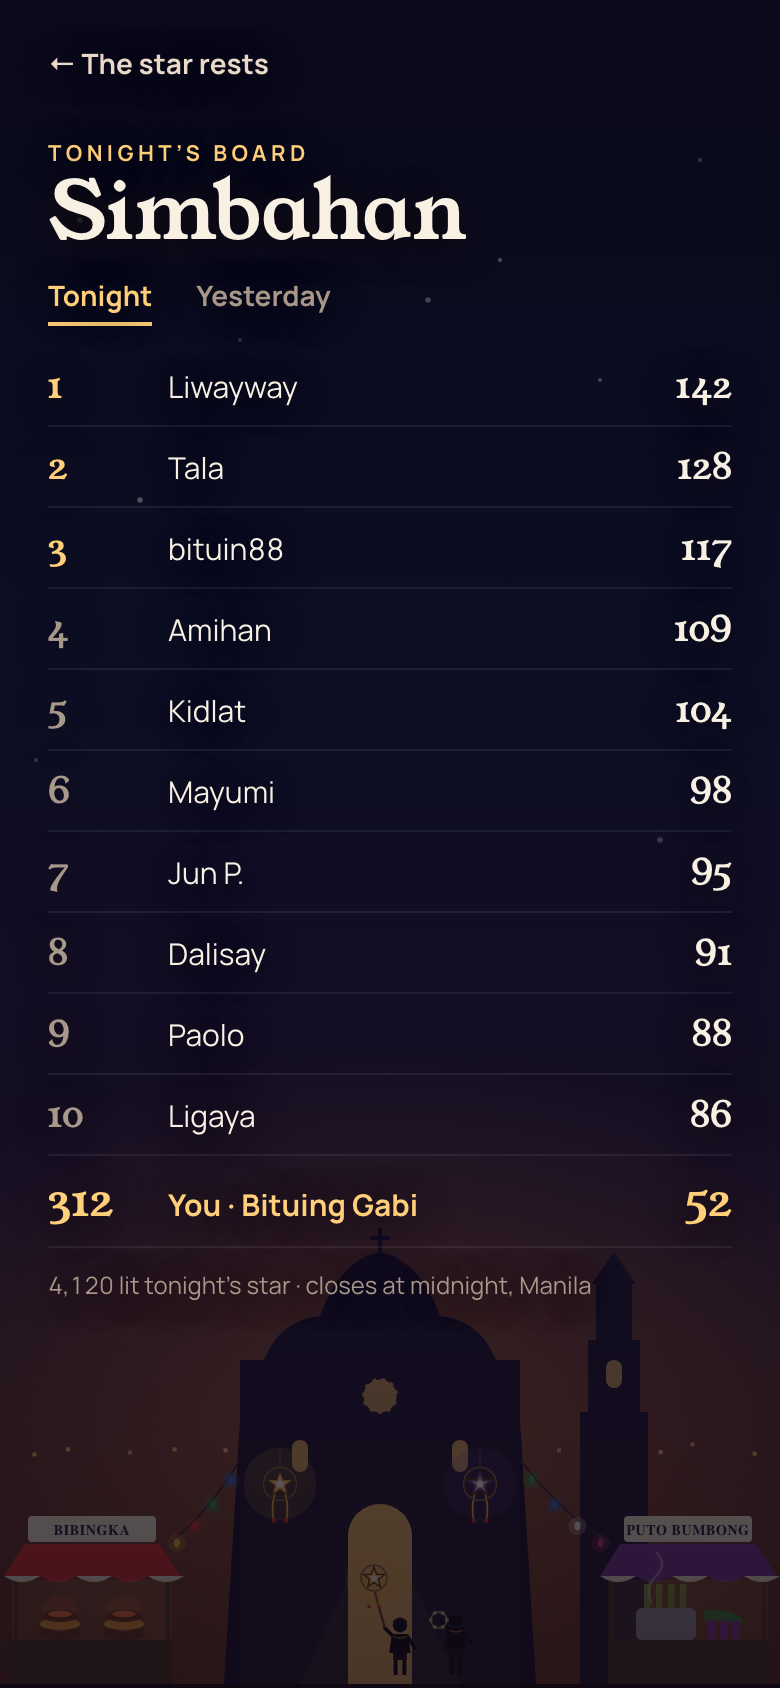
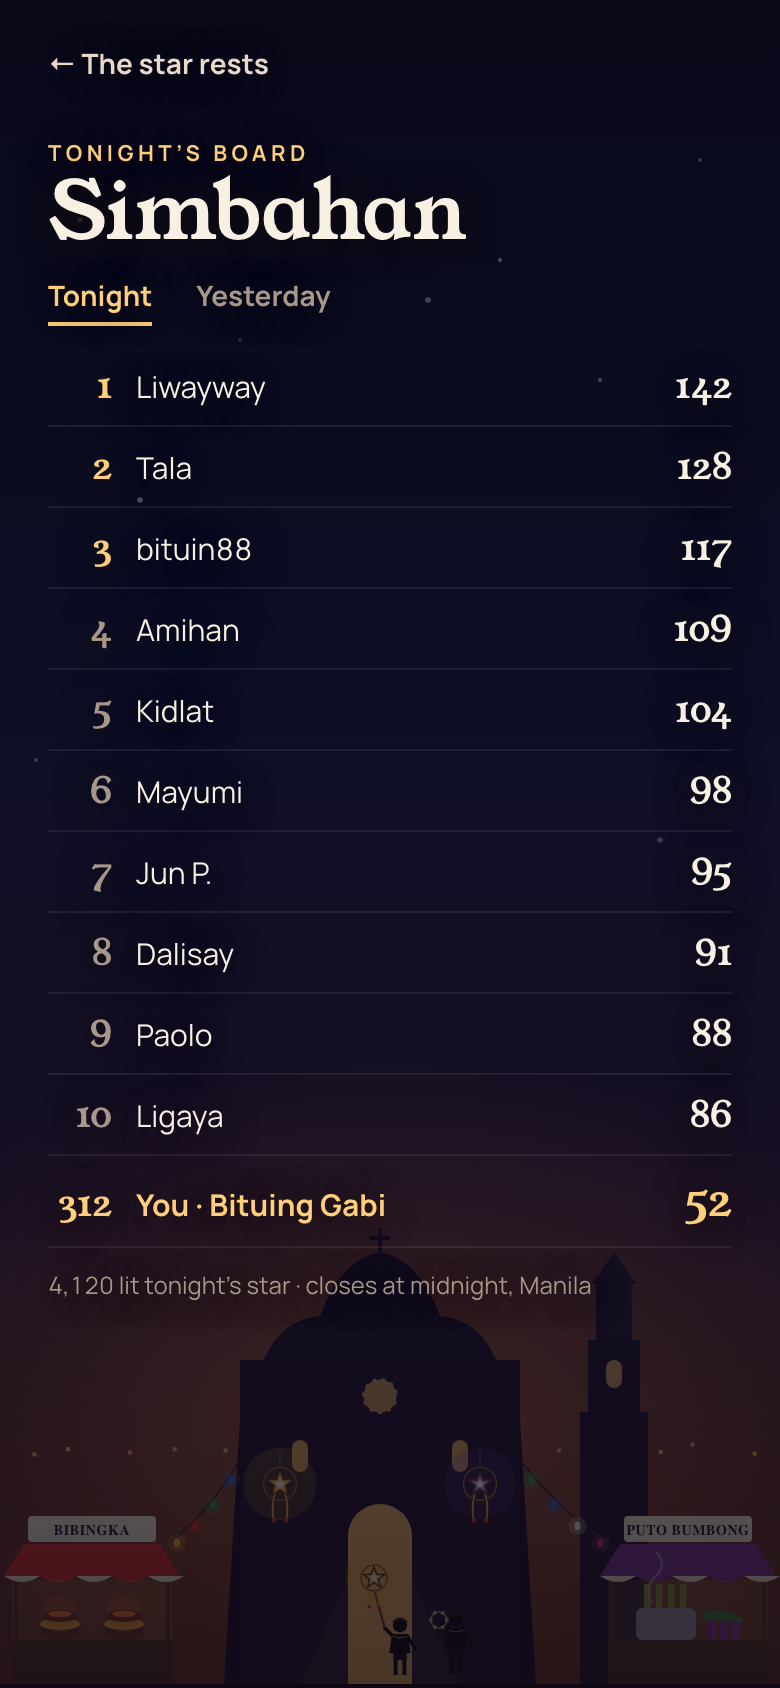
Tighten the board: list ends above the rooftops, ranks sit by their names

diff --git a/mockups/board.tsx b/mockups/board.tsx
@@ -259,9 +259,10 @@ const Tabs = ({ on = 'Tonight' }: { on?: 'Tonight' | 'Yesterday' }) => (
   </div>
 )
 
-const Line = ({ rank, name, rings, you = false, faint = false }: { rank: number | string; name: string; rings: number; you?: boolean; faint?: boolean }) => (
-  <div style={{ display: 'flex', alignItems: 'baseline', gap: 16, padding: '7px 0', borderBottom: '1px solid rgba(255,255,255,0.07)', color: you ? gold : faint ? dusk : 'var(--ink)' }}>
-    <span style={{ width: 44, font: `400 ${you ? 22 : 18}px ${serif}`, color: you || (typeof rank === 'number' && rank <= 3) ? gold : dusk }}>{rank}</span>
+/** dense: desktop rows sit tighter so the list ends above the rooftops. */
+const Line = ({ rank, name, rings, you = false, faint = false, dense = false }: { rank: number | string; name: string; rings: number; you?: boolean; faint?: boolean; dense?: boolean }) => (
+  <div style={{ display: 'flex', alignItems: 'baseline', gap: 12, padding: dense ? '4px 0' : '7px 0', borderBottom: '1px solid rgba(255,255,255,0.07)', color: you ? gold : faint ? dusk : 'var(--ink)' }}>
+    <span style={{ width: 32, textAlign: 'right', font: `400 18px ${serif}`, fontWeight: you ? 600 : 400, color: you || (typeof rank === 'number' && rank <= 3) ? gold : dusk }}>{rank}</span>
     <span style={{ flex: 1, fontSize: 15, fontWeight: you ? 700 : 400 }}>{name}</span>
     <span style={{ font: `400 ${you ? 22 : 18}px ${serif}` }}>{rings}</span>
   </div>
@@ -271,7 +272,7 @@ const Line = ({ rank, name, rings, you = false, faint = false }: { rank: number 
 function DeskFloat() {
   return (
     <DeskBack>
-      <section style={{ position: 'absolute', left: DW * 0.55, top: 176, width: 420, display: 'flex', flexDirection: 'column', gap: 10, textShadow: '0 2px 18px rgba(20,8,5,0.85)' }}>
+      <section style={{ position: 'absolute', left: DW * 0.55, top: 150, width: 420, display: 'flex', flexDirection: 'column', gap: 10, textShadow: '0 2px 18px rgba(20,8,5,0.85)' }}>
         <Back />
         <div style={{ display: 'flex', justifyContent: 'space-between', alignItems: 'flex-end', marginTop: 10 }}>
           <div>
@@ -282,9 +283,9 @@ function DeskFloat() {
         </div>
         <div>
           {TONIGHT.map(([name, rings], i) => (
-            <Line key={name} rank={i + 1} name={name} rings={rings} />
+            <Line key={name} rank={i + 1} name={name} rings={rings} dense />
           ))}
-          <Line rank={312} name="You · Bituing Gabi" rings={52} you />
+          <Line rank={312} name="You · Bituing Gabi" rings={52} you dense />
         </div>
         <Text style={{ fontSize: 12, color: dusk }}>4,120 lit tonight’s star · closes at midnight, Manila</Text>
       </section>
